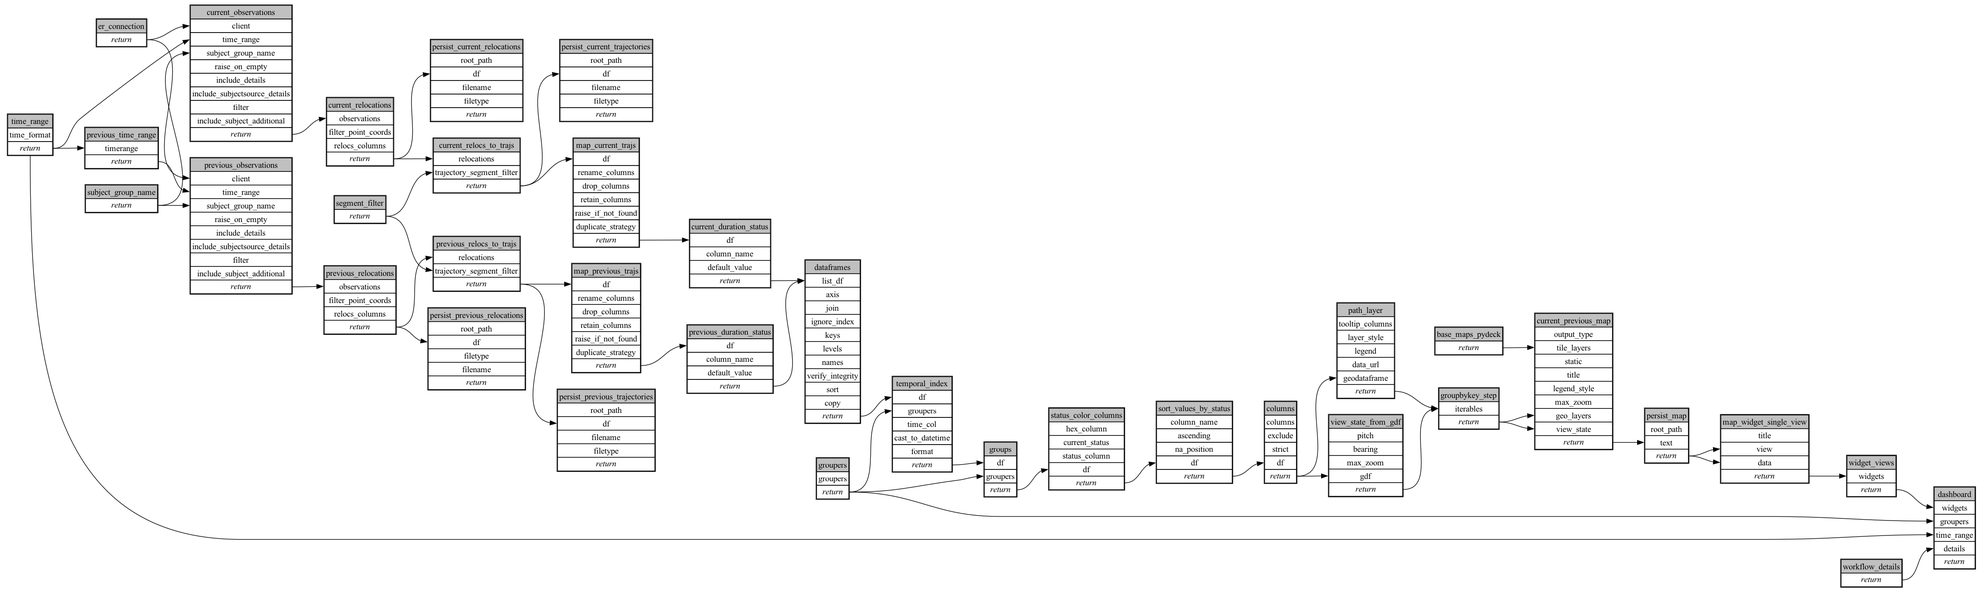
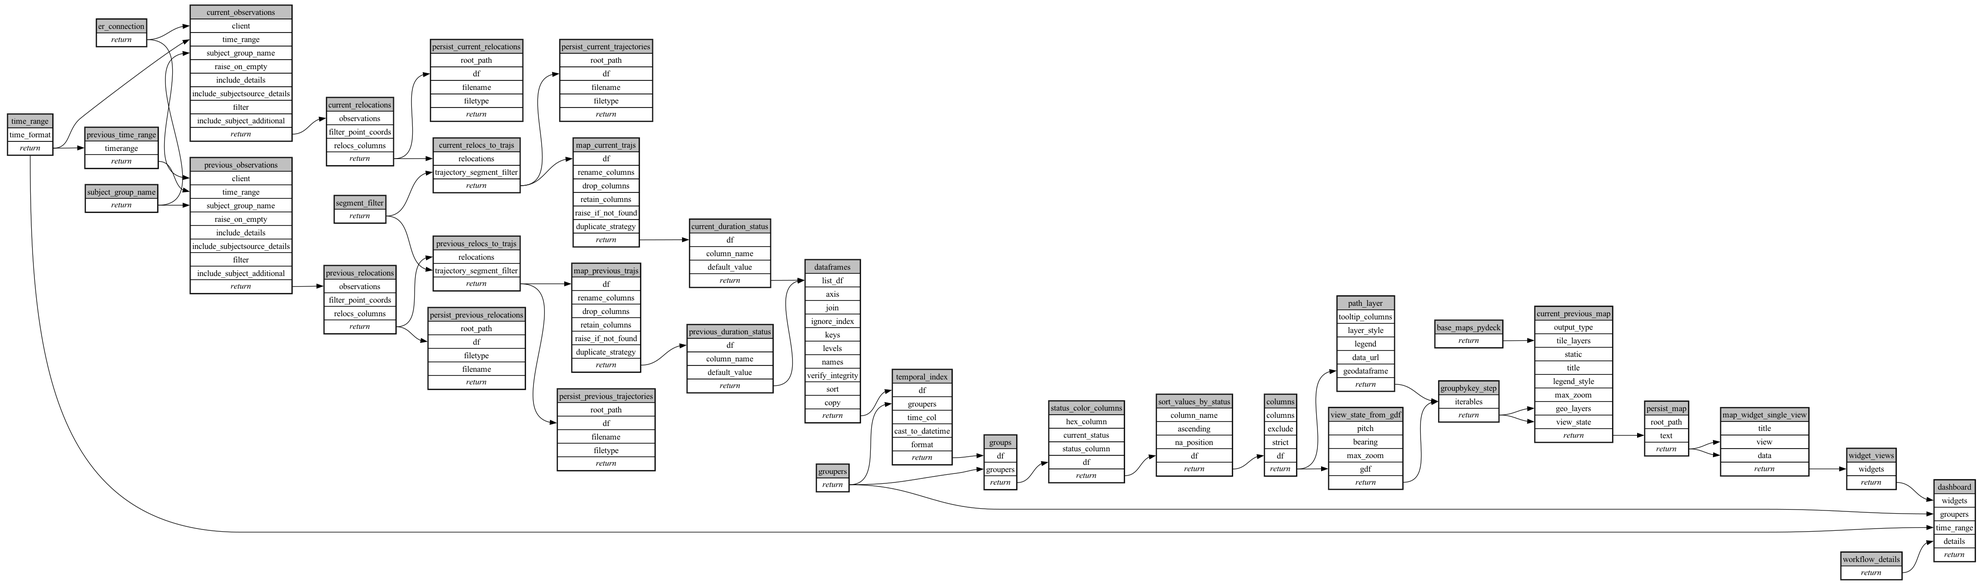
Group by: All by default, Subject Name the only option
- Set Groupers is back on the form instead of fixed to subject_name. Its
  Group by list defaults to empty (one map for the whole subject group) and
  only offers Category -> Subject Name, the same override as mean-speed-raster.
- Test cases cover both: base and sample-er run ungrouped, single-current-color
  and sample-er-no-history group by subject name.
- Metadata, README and docs describe the two layouts and the new form field.
- Recompiled; VERSION stays 6.0.0 for this branch.

Changed region(s): [[0.0, 0.0309, 0.9995, 1.0], [0.0937, 0.8958, 0.1249, 0.9266]]

diff --git a/docs/technical-guide.html b/docs/technical-guide.html
@@ -27,7 +27,7 @@
     <p>In the order they run. Each step is a task from one of the packages below.</p>
     <table>
       <thead><tr><th>#</th><th>Step</th><th>Task</th><th>Group</th><th>What it does</th></tr></thead>
-      <tbody><tr><td>1</td><td><strong>Set Workflow Details</strong></td><td><code>set_workflow_details</code></td><td></td><td>Add information that will help to differentiate this workflow from another.</td></tr><tr><td>2</td><td><strong>Set Groupers</strong></td><td><code>set_groupers</code></td><td></td><td>Splits the results by subject, so the dashboard has one map per subject.</td></tr><tr><td>3</td><td><strong>Connect to EarthRanger</strong></td><td><code>set_er_connection</code></td><td></td><td>The EarthRanger site to read from.</td></tr><tr><td>4</td><td><strong>Set Time Range</strong></td><td><code>set_time_range</code></td><td></td><td>Choose the period of time to analyze.</td></tr><tr><td>5</td><td><strong>Trajectory Segment Filter</strong></td><td><code>trajectory_segment_filter</code></td><td></td><td>Build a TrajectorySegmentFilter with the project&#x27;s default thresholds.</td></tr><tr><td>6</td><td><strong>Subject Group</strong></td><td><code>set_string_var</code></td><td>Subject Group</td><td>The subject group to map.</td></tr><tr><td>7</td><td><strong>BaseMap URLs</strong></td><td><code>set_base_maps_pydeck</code></td><td></td><td>Tile layers drawn under the tracks.</td></tr><tr><td>8</td><td><strong>Current Subject Group Observations</strong></td><td><code>get_subjectgroup_observations</code></td><td></td><td>Get observations for a subject group from EarthRanger.</td></tr><tr><td>9</td><td><strong>Comparison Period</strong></td><td><code>flexible_previous_period</code></td><td></td><td>The earlier period whose tracks are drawn as comparison tracks. It ends where the current time range starts and, by default, is the same length.</td></tr><tr><td>10</td><td><strong>Process Current Relocations</strong></td><td><code>process_relocations</code></td><td></td><td>Cleans the current period&#x27;s fixes and drops known bad coordinates.</td></tr><tr><td>11</td><td><strong>Previous Subject Group Observations</strong></td><td><code>get_subjectgroup_observations</code></td><td></td><td>Get observations for a subject group from EarthRanger.</td></tr><tr><td>12</td><td><strong>Current Relocations to Trajectories</strong></td><td><code>relocations_to_trajectory</code></td><td></td><td>Joins the current fixes into track segments, using the Trajectory Segment Filter settings.</td></tr><tr><td>13</td><td><strong>Process Previous Relocations</strong></td><td><code>process_relocations</code></td><td></td><td>Cleans the previous period&#x27;s fixes and drops known bad coordinates.</td></tr><tr><td>14</td><td><strong>Persist Previous Relocations</strong></td><td><code>persist_df</code></td><td></td><td>Persist dataframe to a file or cloud storage object.</td></tr><tr><td>15</td><td><strong>Persist Current Relocations</strong></td><td><code>persist_df</code></td><td></td><td>Persist dataframe to a file or cloud storage object.</td></tr><tr><td>16</td><td><strong>Map Columns</strong></td><td><code>map_columns</code></td><td></td><td>Maps and transforms the columns of a DataFrame based on the provided parameters. The order of the operations is as follows: drop columns, retain/reorder columns, and rename columns.</td></tr><tr><td>17</td><td><strong>Previous Relocations to Trajectories</strong></td><td><code>relocations_to_trajectory</code></td><td></td><td>Joins the previous fixes into track segments, using the same Trajectory Segment Filter settings as the current tracks.</td></tr><tr><td>18</td><td><strong>Persist Current Trajectories</strong></td><td><code>persist_df</code></td><td></td><td>Persist dataframe to a file or cloud storage object.</td></tr><tr><td>19</td><td><strong>Current Duration Status</strong></td><td><code>add_new_column</code></td><td></td><td>Create a new column in the DataFrame with a default value if it doesn&#x27;t already exist.</td></tr><tr><td>20</td><td><strong>Map Columns</strong></td><td><code>map_columns</code></td><td></td><td>Maps and transforms the columns of a DataFrame based on the provided parameters. The order of the operations is as follows: drop columns, retain/reorder columns, and rename columns.</td></tr><tr><td>21</td><td><strong>Persist Previous Trajectories</strong></td><td><code>persist_df</code></td><td></td><td>Persist dataframe to a file or cloud storage object.</td></tr><tr><td>22</td><td><strong>Previous Duration Status</strong></td><td><code>add_new_column</code></td><td></td><td>Create a new column in the DataFrame with a default value if it doesn&#x27;t already exist.</td></tr><tr><td>23</td><td><strong>Concatenate Current and Previous Dataframes</strong></td><td><code>concatenate_dataframes</code></td><td></td><td>Merge multiple dataframes into a single dataframe.</td></tr><tr><td>24</td><td><strong>Add Temporal Index</strong></td><td><code>add_temporal_index</code></td><td></td><td>Indexes the tracks by segment start time.</td></tr><tr><td>25</td><td><strong>Split Groups</strong></td><td><code>split_groups</code></td><td></td><td>One table of tracks per subject.</td></tr><tr><td>26</td><td><strong>Track Colors</strong></td><td><code>add_status_color_columns</code></td><td></td><td>Colours the tracks: historic tracks in the Historic Tracks Color; current tracks in each subject&#x27;s EarthRanger colour, or in the Current Tracks Color if that&#x27;s turned off.</td></tr><tr><td>27</td><td><strong>Track Order</strong></td><td><code>sort_values</code></td><td></td><td>Orders the rows so current tracks are always drawn on top of historic tracks. Not on the form.</td></tr><tr><td>28</td><td><strong>Subset Columns</strong></td><td><code>subset_columns</code></td><td></td><td>Return a DataFrame restricted to a subset of columns.</td></tr><tr><td>29</td><td><strong>Create Path Layer</strong></td><td><code>ecoscope_workflows_ext_custom.tasks.results.create_path_layer</code></td><td></td><td>Creates a polyline layer definition based on the provided configuration.</td></tr><tr><td>30</td><td><strong>Compute View State From Gdf</strong></td><td><code>compute_view_state_from_gdf</code></td><td></td><td>Zooms each map to its subject&#x27;s tracks.</td></tr><tr><td>31</td><td><strong>Groupbykey</strong></td><td><code>groupbykey</code></td><td></td><td>Pairs each subject&#x27;s path layer with its view state.</td></tr><tr><td>32</td><td><strong>Draw Current Previous Map</strong></td><td><code>ecoscope_workflows_ext_custom.tasks.results.draw_map</code></td><td></td><td>Creates a map based on the provided layer definitions and configuration.</td></tr><tr><td>33</td><td><strong>Persist map as HTML</strong></td><td><code>persist_text</code></td><td></td><td>Persist text to a file or cloud storage object.</td></tr><tr><td>34</td><td><strong>Create Map Widget Single View</strong></td><td><code>create_map_widget_single_view</code></td><td></td><td>Create a map widget with a single view.</td></tr><tr><td>35</td><td><strong>Merge Widget Views</strong></td><td><code>merge_widget_views</code></td><td></td><td>Combines the per-subject maps into one Movement Tracks widget, so the subject filter switches between them.</td></tr><tr><td>36</td><td><strong>Gather Dashboard</strong></td><td><code>gather_dashboard</code></td><td></td><td>Collects the map widgets into the dashboard.</td></tr></tbody>
+      <tbody><tr><td>1</td><td><strong>Set Workflow Details</strong></td><td><code>set_workflow_details</code></td><td></td><td>Add information that will help to differentiate this workflow from another.</td></tr><tr><td>2</td><td><strong>Set Groupers</strong></td><td><code>set_groupers</code></td><td></td><td>Shows all subjects on one map by default, or one map per subject when <strong>Group by</strong> has a Subject Name entry.</td></tr><tr><td>3</td><td><strong>Connect to EarthRanger</strong></td><td><code>set_er_connection</code></td><td></td><td>The EarthRanger site to read from.</td></tr><tr><td>4</td><td><strong>Set Time Range</strong></td><td><code>set_time_range</code></td><td></td><td>Choose the period of time to analyze.</td></tr><tr><td>5</td><td><strong>Trajectory Segment Filter</strong></td><td><code>trajectory_segment_filter</code></td><td></td><td>Build a TrajectorySegmentFilter with the project&#x27;s default thresholds.</td></tr><tr><td>6</td><td><strong>Subject Group</strong></td><td><code>set_string_var</code></td><td>Subject Group</td><td>The subject group to map.</td></tr><tr><td>7</td><td><strong>BaseMap URLs</strong></td><td><code>set_base_maps_pydeck</code></td><td></td><td>Tile layers drawn under the tracks.</td></tr><tr><td>8</td><td><strong>Current Subject Group Observations</strong></td><td><code>get_subjectgroup_observations</code></td><td></td><td>Get observations for a subject group from EarthRanger.</td></tr><tr><td>9</td><td><strong>Comparison Period</strong></td><td><code>flexible_previous_period</code></td><td></td><td>The earlier period whose tracks are drawn as comparison tracks. It ends where the current time range starts and, by default, is the same length.</td></tr><tr><td>10</td><td><strong>Process Current Relocations</strong></td><td><code>process_relocations</code></td><td></td><td>Cleans the current period&#x27;s fixes and drops known bad coordinates.</td></tr><tr><td>11</td><td><strong>Previous Subject Group Observations</strong></td><td><code>get_subjectgroup_observations</code></td><td></td><td>Get observations for a subject group from EarthRanger.</td></tr><tr><td>12</td><td><strong>Current Relocations to Trajectories</strong></td><td><code>relocations_to_trajectory</code></td><td></td><td>Joins the current fixes into track segments, using the Trajectory Segment Filter settings.</td></tr><tr><td>13</td><td><strong>Process Previous Relocations</strong></td><td><code>process_relocations</code></td><td></td><td>Cleans the previous period&#x27;s fixes and drops known bad coordinates.</td></tr><tr><td>14</td><td><strong>Persist Previous Relocations</strong></td><td><code>persist_df</code></td><td></td><td>Persist dataframe to a file or cloud storage object.</td></tr><tr><td>15</td><td><strong>Persist Current Relocations</strong></td><td><code>persist_df</code></td><td></td><td>Persist dataframe to a file or cloud storage object.</td></tr><tr><td>16</td><td><strong>Map Columns</strong></td><td><code>map_columns</code></td><td></td><td>Maps and transforms the columns of a DataFrame based on the provided parameters. The order of the operations is as follows: drop columns, retain/reorder columns, and rename columns.</td></tr><tr><td>17</td><td><strong>Previous Relocations to Trajectories</strong></td><td><code>relocations_to_trajectory</code></td><td></td><td>Joins the previous fixes into track segments, using the same Trajectory Segment Filter settings as the current tracks.</td></tr><tr><td>18</td><td><strong>Persist Current Trajectories</strong></td><td><code>persist_df</code></td><td></td><td>Persist dataframe to a file or cloud storage object.</td></tr><tr><td>19</td><td><strong>Current Duration Status</strong></td><td><code>add_new_column</code></td><td></td><td>Create a new column in the DataFrame with a default value if it doesn&#x27;t already exist.</td></tr><tr><td>20</td><td><strong>Map Columns</strong></td><td><code>map_columns</code></td><td></td><td>Maps and transforms the columns of a DataFrame based on the provided parameters. The order of the operations is as follows: drop columns, retain/reorder columns, and rename columns.</td></tr><tr><td>21</td><td><strong>Persist Previous Trajectories</strong></td><td><code>persist_df</code></td><td></td><td>Persist dataframe to a file or cloud storage object.</td></tr><tr><td>22</td><td><strong>Previous Duration Status</strong></td><td><code>add_new_column</code></td><td></td><td>Create a new column in the DataFrame with a default value if it doesn&#x27;t already exist.</td></tr><tr><td>23</td><td><strong>Concatenate Current and Previous Dataframes</strong></td><td><code>concatenate_dataframes</code></td><td></td><td>Merge multiple dataframes into a single dataframe.</td></tr><tr><td>24</td><td><strong>Add Temporal Index</strong></td><td><code>add_temporal_index</code></td><td></td><td>Indexes the tracks by segment start time.</td></tr><tr><td>25</td><td><strong>Split Groups</strong></td><td><code>split_groups</code></td><td></td><td>One table of tracks per map: all subjects together, or one per subject.</td></tr><tr><td>26</td><td><strong>Track Colors</strong></td><td><code>add_status_color_columns</code></td><td></td><td>Colours the tracks: historic tracks in the Historic Tracks Color; current tracks in each subject&#x27;s EarthRanger colour, or in the Current Tracks Color if that&#x27;s turned off.</td></tr><tr><td>27</td><td><strong>Track Order</strong></td><td><code>sort_values</code></td><td></td><td>Orders the rows so current tracks are always drawn on top of historic tracks. Not on the form.</td></tr><tr><td>28</td><td><strong>Subset Columns</strong></td><td><code>subset_columns</code></td><td></td><td>Return a DataFrame restricted to a subset of columns.</td></tr><tr><td>29</td><td><strong>Create Path Layer</strong></td><td><code>ecoscope_workflows_ext_custom.tasks.results.create_path_layer</code></td><td></td><td>Creates a polyline layer definition based on the provided configuration.</td></tr><tr><td>30</td><td><strong>Compute View State From Gdf</strong></td><td><code>compute_view_state_from_gdf</code></td><td></td><td>Zooms each map to its subject&#x27;s tracks.</td></tr><tr><td>31</td><td><strong>Groupbykey</strong></td><td><code>groupbykey</code></td><td></td><td>Pairs each subject&#x27;s path layer with its view state.</td></tr><tr><td>32</td><td><strong>Draw Current Previous Map</strong></td><td><code>ecoscope_workflows_ext_custom.tasks.results.draw_map</code></td><td></td><td>Creates a map based on the provided layer definitions and configuration.</td></tr><tr><td>33</td><td><strong>Persist map as HTML</strong></td><td><code>persist_text</code></td><td></td><td>Persist text to a file or cloud storage object.</td></tr><tr><td>34</td><td><strong>Create Map Widget Single View</strong></td><td><code>create_map_widget_single_view</code></td><td></td><td>Create a map widget with a single view.</td></tr><tr><td>35</td><td><strong>Merge Widget Views</strong></td><td><code>merge_widget_views</code></td><td></td><td>Combines the per-subject maps into one Movement Tracks widget, so the subject filter switches between them.</td></tr><tr><td>36</td><td><strong>Gather Dashboard</strong></td><td><code>gather_dashboard</code></td><td></td><td>Collects the map widgets into the dashboard.</td></tr></tbody>
     </table>
 
     <h2>Task packages</h2>
@@ -37,8 +37,9 @@
     </table>
 
     <h2>Run form</h2>
-    <p><code>spec.yaml</code> shapes the form in five ways:</p>
+    <p><code>spec.yaml</code> shapes the form in six ways:</p>
     <ul>
+      <li><strong>Grouping.</strong> <strong>Set Groupers</strong> has no <code>partial</code>, so its <em>Group by</em> list is on the form. <code>rjsf-overrides</code> limits it to one option, <code>groupers.properties.groupers.items.anyOf</code> with a single Category whose <code>index_name</code> is <code>subject_name</code>. The default is an empty list: one map for the whole subject group. A Subject Name entry splits <strong>Split Groups</strong> and everything after it into one map per subject.</li>
       <li><strong>Subject group drop-down.</strong> <code>rjsf-overrides</code> replaces the <code>set_string_var</code> field in the <strong>Subject Group</strong> task group (<em>Var</em>) with a <em>Subject Group Name</em> drop-down. Its <code>EarthRangerEnumResolver</code> transform lists the subject groups of the data source picked under <strong>Connect to EarthRanger</strong> (<code>depends_on: properties.er_connection.properties.data_source.properties.name</code>). Fields inside a task group are addressed as <code>&lt;group title&gt;.properties.&lt;step id&gt;</code>, so the key is <code>Subject Group.properties.subject_group_name.properties.var</code>. A key naming any other step id matches nothing and is ignored.</li>
       <li><strong>Comparison period default.</strong> <code>rjsf-overrides</code> titles and describes the <strong>Comparison Period</strong> step (<code>previous_time_range</code>) and defaults its length to the <em>Same as current period</em> preset: <code>previous_time_range.properties.offset.default</code> picks the Preset option, and <code>$defs: PresetPreviousPeriod.properties.preset.default</code> sets the preset inside it.</li>
       <li><strong>Track Colors.</strong> <code>rjsf-overrides</code> turns the fields of the <strong>Track Colors</strong> step (<code>status_color_columns</code>) into two colour pickers (<code>format: color</code>, defaults <code>#a9a9a9</code> and <code>#6495ed</code>) and a <em>Use subject colors for current tracks</em> checkbox (default on). The keys are <code>status_color_columns.properties.&lt;field&gt;</code>. <code>previous_color_hex</code> has no default, so <code>test-cases.yaml</code> sets it.</li>

diff --git a/docs/index.html b/docs/index.html
@@ -21,10 +21,10 @@
 
   <main>
     <h1>subject-historic-current-comparison</h1>
-    <p class="lede">Maps each subject in an EarthRanger subject group with its tracks from the chosen time range on top of its tracks from a historic period just before it. Current tracks are always drawn on top of historic tracks. By default they&#x27;re in the subject&#x27;s EarthRanger colour and the historic tracks are grey; both colours can be changed on the form. There is one map per subject.</p>
+    <p class="lede">Maps each subject in an EarthRanger subject group with its tracks from the chosen time range on top of its tracks from a historic period just before it. Current tracks are always drawn on top of historic tracks. By default they&#x27;re in the subject&#x27;s EarthRanger colour and the historic tracks are grey; both colours can be changed on the form. By default all subjects share one map; group by subject name to get one map per subject.</p>
     <figure>
       <img src="../resources/thumbnail.png" alt="One subject's map: current tracks in the subject's colour drawn over grey historic tracks" style="width:100%;height:auto">
-      <figcaption>One lion&#x27;s map from a run against the Sample EarthRanger (made-up data).</figcaption>
+      <figcaption>One lion&#x27;s map from a run against the Sample EarthRanger (made-up data), grouped by subject name.</figcaption>
     </figure>
 
     <div class="card-grid">
@@ -45,7 +45,7 @@
     <h2>What it does</h2>
     <table>
       <thead><tr><th>Step</th><th>What it does</th></tr></thead>
-      <tbody><tr><td><strong>Set Workflow Details</strong></td><td>Add information that will help to differentiate this workflow from another.</td></tr><tr><td><strong>Set Groupers</strong></td><td>Splits the results by subject, so the dashboard has one map per subject.</td></tr><tr><td><strong>Connect to EarthRanger</strong></td><td>The EarthRanger site to read from.</td></tr><tr><td><strong>Set Time Range</strong></td><td>Choose the period of time to analyze.</td></tr><tr><td><strong>Trajectory Segment Filter</strong></td><td>Build a TrajectorySegmentFilter with the project&#x27;s default thresholds.</td></tr><tr><td><strong>Subject Group</strong></td><td>The subject group to map.</td></tr><tr><td><strong>BaseMap URLs</strong></td><td>Tile layers drawn under the tracks.</td></tr><tr><td><strong>Current Subject Group Observations</strong></td><td>Get observations for a subject group from EarthRanger.</td></tr><tr><td><strong>Comparison Period</strong></td><td>The earlier period whose tracks are drawn as comparison tracks. It ends where the current time range starts and, by default, is the same length.</td></tr><tr><td><strong>Process Current Relocations</strong></td><td>Cleans the current period&#x27;s fixes and drops known bad coordinates.</td></tr><tr><td><strong>Previous Subject Group Observations</strong></td><td>Get observations for a subject group from EarthRanger.</td></tr><tr><td><strong>Current Relocations to Trajectories</strong></td><td>Joins the current fixes into track segments, using the Trajectory Segment Filter settings.</td></tr><tr><td><strong>Process Previous Relocations</strong></td><td>Cleans the previous period&#x27;s fixes and drops known bad coordinates.</td></tr><tr><td><strong>Persist Previous Relocations</strong></td><td>Persist dataframe to a file or cloud storage object.</td></tr><tr><td><strong>Persist Current Relocations</strong></td><td>Persist dataframe to a file or cloud storage object.</td></tr><tr><td><strong>Map Columns</strong></td><td>Maps and transforms the columns of a DataFrame based on the provided parameters. The order of the operations is as follows: drop columns, retain/reorder columns, and rename columns.</td></tr><tr><td><strong>Previous Relocations to Trajectories</strong></td><td>Joins the previous fixes into track segments, using the same Trajectory Segment Filter settings as the current tracks.</td></tr><tr><td><strong>Persist Current Trajectories</strong></td><td>Persist dataframe to a file or cloud storage object.</td></tr><tr><td><strong>Current Duration Status</strong></td><td>Create a new column in the DataFrame with a default value if it doesn&#x27;t already exist.</td></tr><tr><td><strong>Map Columns</strong></td><td>Maps and transforms the columns of a DataFrame based on the provided parameters. The order of the operations is as follows: drop columns, retain/reorder columns, and rename columns.</td></tr><tr><td><strong>Persist Previous Trajectories</strong></td><td>Persist dataframe to a file or cloud storage object.</td></tr><tr><td><strong>Previous Duration Status</strong></td><td>Create a new column in the DataFrame with a default value if it doesn&#x27;t already exist.</td></tr><tr><td><strong>Concatenate Current and Previous Dataframes</strong></td><td>Merge multiple dataframes into a single dataframe.</td></tr><tr><td><strong>Add Temporal Index</strong></td><td>Indexes the tracks by segment start time.</td></tr><tr><td><strong>Split Groups</strong></td><td>One table of tracks per subject.</td></tr><tr><td><strong>Track Colors</strong></td><td>Colours the tracks: historic tracks in the Historic Tracks Color; current tracks in each subject&#x27;s EarthRanger colour, or in the Current Tracks Color if that&#x27;s turned off.</td></tr><tr><td><strong>Track Order</strong></td><td>Orders the rows so current tracks are always drawn on top of historic tracks. Not on the form.</td></tr><tr><td><strong>Subset Columns</strong></td><td>Return a DataFrame restricted to a subset of columns.</td></tr><tr><td><strong>Create Path Layer</strong></td><td>Creates a polyline layer definition based on the provided configuration.</td></tr><tr><td><strong>Compute View State From Gdf</strong></td><td>Zooms each map to its subject&#x27;s tracks.</td></tr><tr><td><strong>Groupbykey</strong></td><td>Pairs each subject&#x27;s path layer with its view state.</td></tr><tr><td><strong>Draw Current Previous Map</strong></td><td>Creates a map based on the provided layer definitions and configuration.</td></tr><tr><td><strong>Persist map as HTML</strong></td><td>Persist text to a file or cloud storage object.</td></tr><tr><td><strong>Create Map Widget Single View</strong></td><td>Create a map widget with a single view.</td></tr><tr><td><strong>Merge Widget Views</strong></td><td>Combines the per-subject maps into one Movement Tracks widget, so the subject filter switches between them.</td></tr><tr><td><strong>Gather Dashboard</strong></td><td>Collects the map widgets into the dashboard.</td></tr></tbody>
+      <tbody><tr><td><strong>Set Workflow Details</strong></td><td>Add information that will help to differentiate this workflow from another.</td></tr><tr><td><strong>Set Groupers</strong></td><td>Shows all subjects on one map by default, or one map per subject when <strong>Group by</strong> has a Subject Name entry.</td></tr><tr><td><strong>Connect to EarthRanger</strong></td><td>The EarthRanger site to read from.</td></tr><tr><td><strong>Set Time Range</strong></td><td>Choose the period of time to analyze.</td></tr><tr><td><strong>Trajectory Segment Filter</strong></td><td>Build a TrajectorySegmentFilter with the project&#x27;s default thresholds.</td></tr><tr><td><strong>Subject Group</strong></td><td>The subject group to map.</td></tr><tr><td><strong>BaseMap URLs</strong></td><td>Tile layers drawn under the tracks.</td></tr><tr><td><strong>Current Subject Group Observations</strong></td><td>Get observations for a subject group from EarthRanger.</td></tr><tr><td><strong>Comparison Period</strong></td><td>The earlier period whose tracks are drawn as comparison tracks. It ends where the current time range starts and, by default, is the same length.</td></tr><tr><td><strong>Process Current Relocations</strong></td><td>Cleans the current period&#x27;s fixes and drops known bad coordinates.</td></tr><tr><td><strong>Previous Subject Group Observations</strong></td><td>Get observations for a subject group from EarthRanger.</td></tr><tr><td><strong>Current Relocations to Trajectories</strong></td><td>Joins the current fixes into track segments, using the Trajectory Segment Filter settings.</td></tr><tr><td><strong>Process Previous Relocations</strong></td><td>Cleans the previous period&#x27;s fixes and drops known bad coordinates.</td></tr><tr><td><strong>Persist Previous Relocations</strong></td><td>Persist dataframe to a file or cloud storage object.</td></tr><tr><td><strong>Persist Current Relocations</strong></td><td>Persist dataframe to a file or cloud storage object.</td></tr><tr><td><strong>Map Columns</strong></td><td>Maps and transforms the columns of a DataFrame based on the provided parameters. The order of the operations is as follows: drop columns, retain/reorder columns, and rename columns.</td></tr><tr><td><strong>Previous Relocations to Trajectories</strong></td><td>Joins the previous fixes into track segments, using the same Trajectory Segment Filter settings as the current tracks.</td></tr><tr><td><strong>Persist Current Trajectories</strong></td><td>Persist dataframe to a file or cloud storage object.</td></tr><tr><td><strong>Current Duration Status</strong></td><td>Create a new column in the DataFrame with a default value if it doesn&#x27;t already exist.</td></tr><tr><td><strong>Map Columns</strong></td><td>Maps and transforms the columns of a DataFrame based on the provided parameters. The order of the operations is as follows: drop columns, retain/reorder columns, and rename columns.</td></tr><tr><td><strong>Persist Previous Trajectories</strong></td><td>Persist dataframe to a file or cloud storage object.</td></tr><tr><td><strong>Previous Duration Status</strong></td><td>Create a new column in the DataFrame with a default value if it doesn&#x27;t already exist.</td></tr><tr><td><strong>Concatenate Current and Previous Dataframes</strong></td><td>Merge multiple dataframes into a single dataframe.</td></tr><tr><td><strong>Add Temporal Index</strong></td><td>Indexes the tracks by segment start time.</td></tr><tr><td><strong>Split Groups</strong></td><td>One table of tracks per map: all subjects together, or one per subject.</td></tr><tr><td><strong>Track Colors</strong></td><td>Colours the tracks: historic tracks in the Historic Tracks Color; current tracks in each subject&#x27;s EarthRanger colour, or in the Current Tracks Color if that&#x27;s turned off.</td></tr><tr><td><strong>Track Order</strong></td><td>Orders the rows so current tracks are always drawn on top of historic tracks. Not on the form.</td></tr><tr><td><strong>Subset Columns</strong></td><td>Return a DataFrame restricted to a subset of columns.</td></tr><tr><td><strong>Create Path Layer</strong></td><td>Creates a polyline layer definition based on the provided configuration.</td></tr><tr><td><strong>Compute View State From Gdf</strong></td><td>Zooms each map to its subject&#x27;s tracks.</td></tr><tr><td><strong>Groupbykey</strong></td><td>Pairs each subject&#x27;s path layer with its view state.</td></tr><tr><td><strong>Draw Current Previous Map</strong></td><td>Creates a map based on the provided layer definitions and configuration.</td></tr><tr><td><strong>Persist map as HTML</strong></td><td>Persist text to a file or cloud storage object.</td></tr><tr><td><strong>Create Map Widget Single View</strong></td><td>Create a map widget with a single view.</td></tr><tr><td><strong>Merge Widget Views</strong></td><td>Combines the per-subject maps into one Movement Tracks widget, so the subject filter switches between them.</td></tr><tr><td><strong>Gather Dashboard</strong></td><td>Collects the map widgets into the dashboard.</td></tr></tbody>
     </table>
 
     <h2>Requirements</h2>

diff --git a/docs/user-guide.html b/docs/user-guide.html
@@ -36,6 +36,11 @@
       <thead><tr><th>Field</th><th>Description</th><th>Default</th></tr></thead>
       <tbody><tr><td>Workflow Name <em>(required)</em></td><td></td><td>—</td></tr><tr><td>Workflow Description</td><td></td><td>—</td></tr></tbody>
     </table>
+    <h3>Set Groupers</h3>
+    <table>
+      <thead><tr><th>Field</th><th>Description</th><th>Default</th></tr></thead>
+      <tbody><tr><td>Group by</td><td>Add a <strong>Category → Subject Name</strong> entry to split the dashboard into one map per subject. Leave it empty to show all subjects on a single map. Subject Name is the only grouping offered.</td><td>empty (all subjects on one map)</td></tr></tbody>
+    </table>
     <h3>Connect to EarthRanger</h3>
     <table>
       <thead><tr><th>Field</th><th>Description</th><th>Default</th></tr></thead>
@@ -75,10 +80,10 @@
     </table>
 
     <h2>4. Run it and find the results</h2>
-    <p>The workflow writes its files to the results folder the runner gives it (<code>ECOSCOPE_WORKFLOWS_RESULTS</code>), and shows its dashboard when it finishes. The dashboard has one <strong>Movement Tracks</strong> map per subject. The current period is always drawn on top of the historic period; with the default <strong>Track Colors</strong>, current tracks are in the subject's EarthRanger colour and historic tracks in grey.</p>
+    <p>The workflow writes its files to the results folder the runner gives it (<code>ECOSCOPE_WORKFLOWS_RESULTS</code>), and shows its dashboard when it finishes. The dashboard has one <strong>Movement Tracks</strong> map with all subjects on it, or one map per subject (picked with the dashboard&#x27;s filter) when grouped by subject name. The current period is always drawn on top of the historic period; with the default <strong>Track Colors</strong>, current tracks are in the subject's EarthRanger colour and historic tracks in grey.</p>
     <figure>
       <img src="../resources/thumbnail.png" alt="One subject's Movement Tracks map: current tracks in the subject's colour over grey historic tracks, with a legend" style="width:100%;height:auto">
-      <figcaption>One lion&#x27;s map from a run against the Sample EarthRanger (made-up data).</figcaption>
+      <figcaption>One lion&#x27;s map from a run against the Sample EarthRanger (made-up data), grouped by subject name.</figcaption>
     </figure>
   </main>
 

diff --git a/ecoscope-workflows-subject-historic-current-comparison-workflow/ecoscope_workflows_subject_historic_current_comparison_workflow/dags/run_sequential_mock_io.py b/ecoscope-workflows-subject-historic-current-comparison-workflow/ecoscope_workflows_subject_historic_current_comparison_workflow/dags/run_sequential_mock_io.py
@@ -117,9 +117,7 @@ def main(params: dict[str, Any], validate_params_schema: bool = True):
             ],
             unpack_depth=1,
         )
-        .partial(
-            groupers=[{"index_name": "subject_name"}], **(params.get("groupers") or {})
-        )
+        .partial(**(params.get("groupers") or {}))
         .call()
     )
 

diff --git a/ecoscope-workflows-subject-historic-current-comparison-workflow/ecoscope_workflows_subject_historic_current_comparison_workflow/dags/run_sequential.py b/ecoscope-workflows-subject-historic-current-comparison-workflow/ecoscope_workflows_subject_historic_current_comparison_workflow/dags/run_sequential.py
@@ -99,9 +99,7 @@ def main(params: dict[str, Any], validate_params_schema: bool = True):
             ],
             unpack_depth=1,
         )
-        .partial(
-            groupers=[{"index_name": "subject_name"}], **(params.get("groupers") or {})
-        )
+        .partial(**(params.get("groupers") or {}))
         .call()
     )
 

diff --git a/README.md b/README.md
@@ -1,17 +1,17 @@
 # subject-historic-current-comparison
 
-Maps each subject in an EarthRanger subject group with its tracks from the chosen time range on top of its tracks from a historic period just before it. Current tracks are always drawn on top of historic tracks. By default they're in the subject's EarthRanger colour and the historic tracks are grey; both colours can be changed on the form. There is one map per subject.
+Maps each subject in an EarthRanger subject group with its tracks from the chosen time range on top of its tracks from a historic period just before it. Current tracks are always drawn on top of historic tracks. By default they're in the subject's EarthRanger colour and the historic tracks are grey; both colours can be changed on the form. By default all subjects share one map; group by subject name to get one map per subject.
 
 ![Historic and current tracks map (Sample EarthRanger data)](resources/thumbnail.png)
 
-*One lion's map from a run against the Sample EarthRanger (made-up data): the current two weeks in the subject's colour over the two weeks before in grey.*
+*One lion's map from a run against the Sample EarthRanger (made-up data), grouped by subject name: the current two weeks in the subject's colour over the two weeks before in grey.*
 
 ## What it does
 
 | Step | What it does |
 |---|---|
 | **Set Workflow Details** | Add information that will help to differentiate this workflow from another. |
-| **Set Groupers** | Splits the results by subject, so the dashboard has one map per subject. |
+| **Set Groupers** | Shows all subjects on one map by default, or one map per subject when **Group by** has a Subject Name entry. |
 | **Connect to EarthRanger** | The EarthRanger site to read from. |
 | **Set Time Range** | Choose the period of time to analyze. |
 | **Trajectory Segment Filter** | Build a TrajectorySegmentFilter with the project's default thresholds. |
@@ -34,7 +34,7 @@ Maps each subject in an EarthRanger subject group with its tracks from the chose
 | **Previous Duration Status** | Create a new column in the DataFrame with a default value if it doesn't already exist. |
 | **Concatenate Current and Previous Dataframes** | Merge multiple dataframes into a single dataframe. |
 | **Add Temporal Index** | Indexes the tracks by segment start time. |
-| **Split Groups** | One table of tracks per subject. |
+| **Split Groups** | One table of tracks per map: all subjects together, or one per subject. |
 | **Track Colors** | Colours the tracks: historic tracks in the Historic Tracks Color; current tracks in each subject's EarthRanger colour, or in the Current Tracks Color if that's turned off. |
 | **Track Order** | Orders the rows so current tracks are always drawn on top of historic tracks. Not on the form. |
 | **Subset Columns** | Return a DataFrame restricted to a subset of columns. |
@@ -70,6 +70,12 @@ You'll be prompted to fill in the following parameters before running.
 |---|---|---|
 | Workflow Name *(required)* |  | — |
 | Workflow Description |  | — |
+
+### Set Groupers
+
+| Field | Description | Default |
+|---|---|---|
+| Group by | Add a **Category → Subject Name** entry to split the dashboard into one map per subject. Leave it empty to show all subjects on a single map. Subject Name is the only grouping offered. | empty (all subjects on one map) |
 
 ### Connect to EarthRanger
 
@@ -132,6 +138,10 @@ Current tracks are always drawn on top of historic tracks where they overlap.
 
 The run form is set in `spec.yaml`:
 
+- **Set Groupers** is on the form, limited to the default *All* (an empty list) or **Category → Subject
+  Name**: `groupers.properties.groupers.items.anyOf` offers a single Category option whose `index_name` is
+  `subject_name`. Grouping by subject splits **Split Groups** and every step after it into one map per
+  subject; without it there's one map for the whole group.
 - `rjsf-overrides` turns the **Subject Group** field (*Var*) into a *Subject Group Name* drop-down: the
   `EarthRangerEnumResolver` transform fills it with the subject groups of the data source picked under
   **Connect to EarthRanger** (`depends_on: properties.er_connection.properties.data_source.properties.name`).
@@ -164,10 +174,10 @@ The run form is set in `spec.yaml`:
 
 | Case | Data | What it covers |
 |---|---|---|
-| `base` | mock IO | every field at its form default |
-| `single-current-color` | mock IO | one picked colour for all current tracks, a non-default historic colour, *3 months back* |
-| `sample-er` | Sample EarthRanger | Lions over two weeks, with the two weeks before as the historic period |
-| `sample-er-no-history` | Sample EarthRanger | a historic period before the Sample EarthRanger's data starts, so only current tracks are drawn |
+| `base` | mock IO | every field at its form default, so one map for all subjects |
+| `single-current-color` | mock IO | one picked colour for all current tracks, a non-default historic colour, *3 months back*, grouped by subject name |
+| `sample-er` | Sample EarthRanger | Lions over two weeks, with the two weeks before as the historic period, all five on one map |
+| `sample-er-no-history` | Sample EarthRanger | a historic period before the Sample EarthRanger's data starts, so only current tracks are drawn; grouped by subject name |
 
 With mock IO the platform's packaged fixture stands in for both observation fetches (it ignores the
 time range), so the historic and current tracks are the same. The `sample-er` cases need the local
@@ -186,6 +196,7 @@ env 'ECOSCOPE_WORKFLOWS__CONNECTIONS__EARTHRANGER__SAMPLE EARTHRANGER__SERVER=ht
 ```
 
 Results land in `/tmp/workflow-test-results/subject_historic_current_comparison/<case>/`. The thumbnail
-(`resources/thumbnail.png`) is a screenshot of one map from the `sample-er` run.
+(`resources/thumbnail.png`) is one lion's map from a `sample-er` run grouped by subject name (the
+Sample EarthRanger's lions are at two sites far apart, so the all-subjects map is too zoomed out to read).
 
 Documentation: [docs/index.html](docs/index.html).

diff --git a/ecoscope-workflows-subject-historic-current-comparison-workflow/README.md b/ecoscope-workflows-subject-historic-current-comparison-workflow/README.md
@@ -5,8 +5,8 @@
 
 ```yaml
 # fingerprint:
-artifacts_sha256_basic: 25ad7ba80b3e0eb9ed21d94ab428ee2b7281b9bbbbbe71cb885043d93dc8630a
-artifacts_sha256_strict: 2d2271326aca55cec1b6c9d8565c504f7436ec958544fac1659bb20cb60886f7
+artifacts_sha256_basic: 0a14b48f089eab03134780a0bac3577e50c3963634917aadbd81ab0096dd0b0b
+artifacts_sha256_strict: 6424c9176b9360cdaac49bfc72179461963e2ca328df8a60330ba95ed2df6832
 installed_requirements:
 - channel: https://repo.prefix.dev/ecoscope-workflows/
   name: ecoscope-platform
@@ -20,8 +20,8 @@ installed_requirements:
 - channel: conda-forge
   name: pydeck
   version: {version: ==0.9.2}
-params_sha256: f9b539dc2f2e112260b6463c266f9cc59fe7c776d51fe07f2d0776bd316e6406
-spec_sha256: 3b37610c9d7795a02ed6b679e0d0bc52cb67551419f65b278c088b167bbeb6fc
+params_sha256: a2308518060a378f5eaf7e56a6000e37f3a2d531a937b711b6a1667440145495
+spec_sha256: b530b468bf6c1d77021dd28dd874ba9fbedc292edeb717c824463f1d4c0a3fcd
 
 ```
 
